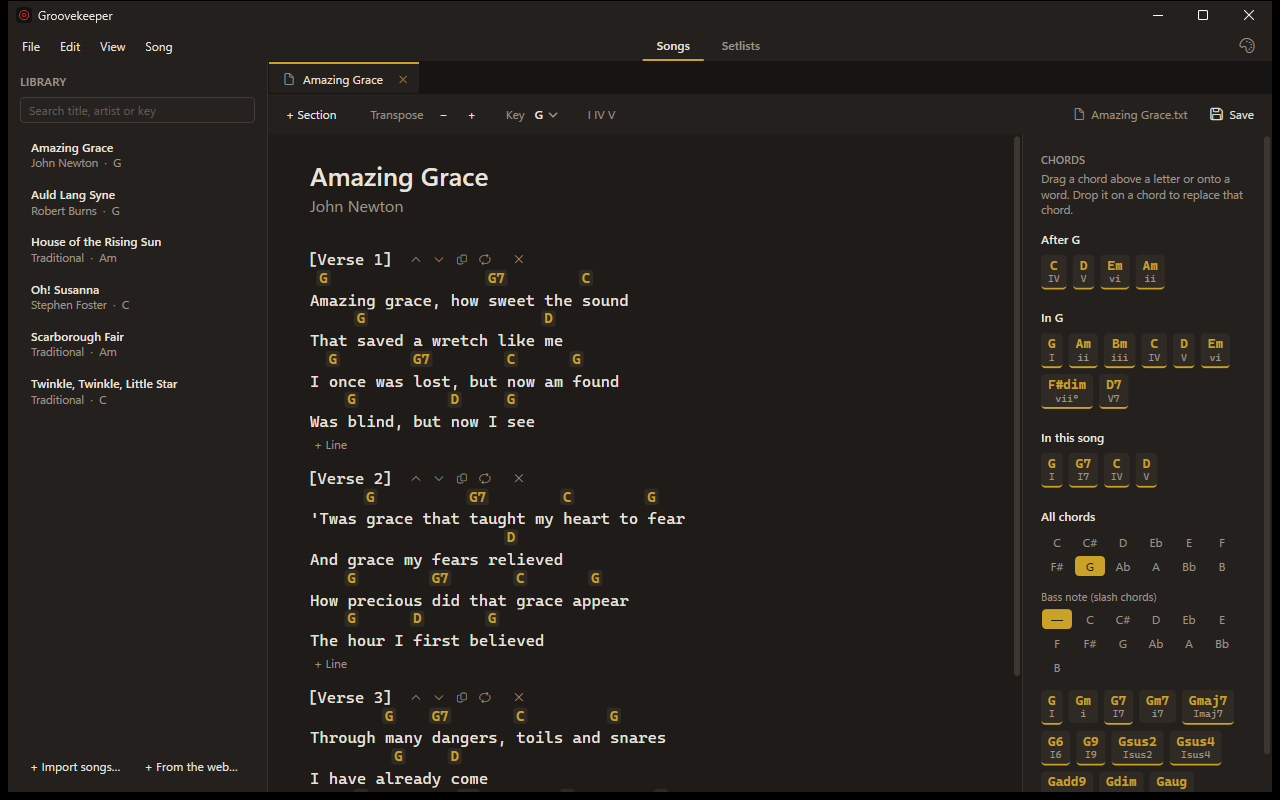
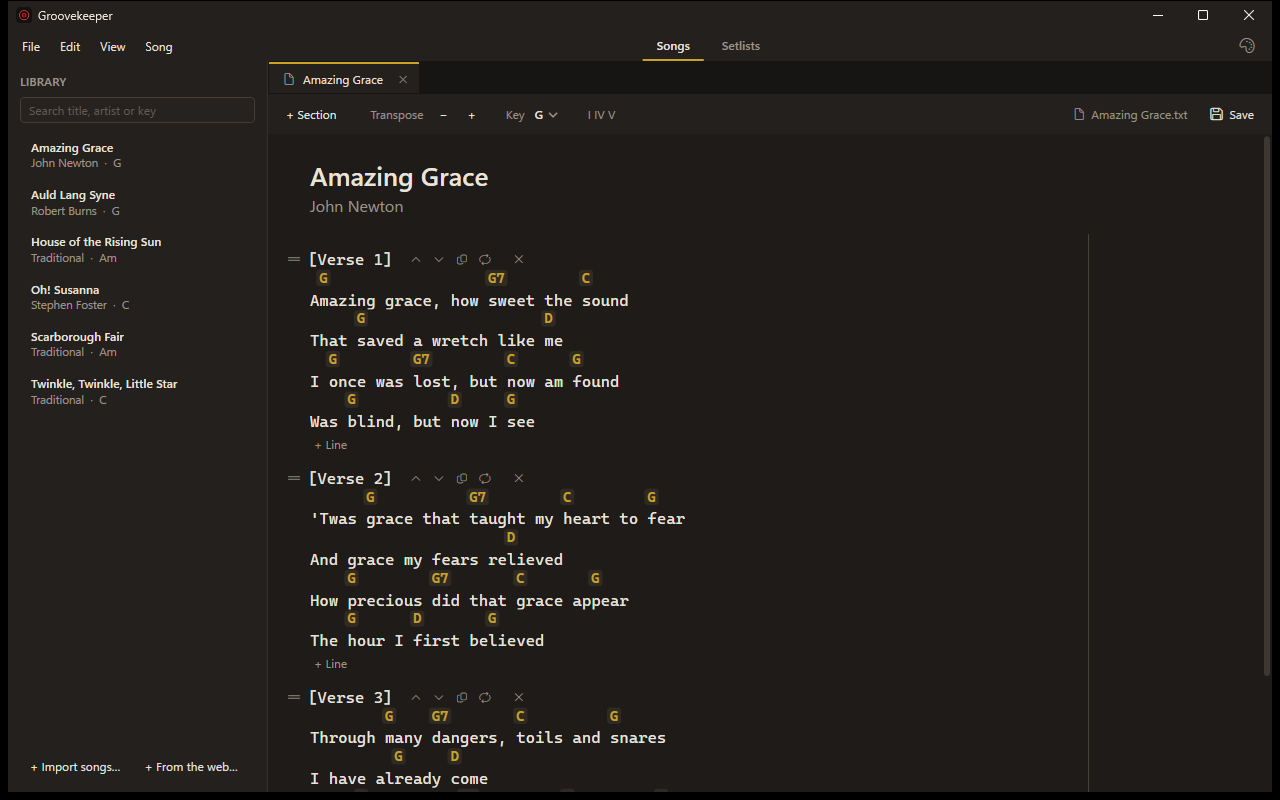
fix(start): describe chords as they work since 1.2.0
The start page still told users to drag chords from the panel on the
right, which 1.2.0 removed, and that transposing changes the key, which
it no longer does. The tips now say to click above a letter and type the
chord, mention double-click to change one, and say the key stays as set.
The tagline says "put" rather than "drop" in both apps.

The README screenshots are taken again: the editor without the chord
panel, and the start page with the new tips.

Changed region(s): [[0.7812, 0.1875, 0.9688, 0.8438], [0.8125, 0.8438, 1.0, 1.0]]

diff --git a/SongCreator/Views/StartPage.xaml b/SongCreator/Views/StartPage.xaml
@@ -97,7 +97,7 @@
                     </StackPanel>
                     <TextBlock FontSize="19" Foreground="{DynamicResource MutedForeground}" TextWrapping="Wrap"
                                Margin="0,12,0,32" LineHeight="28" MaxWidth="420" HorizontalAlignment="Left"
-                               Text="Write your lyrics, then drop each chord exactly on the syllable where it changes." />
+                               Text="Write your lyrics, then put each chord exactly on the syllable where it changes." />
 
                     <StackPanel Orientation="Horizontal">
                         <Button Style="{StaticResource PrimaryButton}" Command="{Binding NewSongCommand}" FontSize="15">
@@ -135,9 +135,9 @@
                     <Border Style="{StaticResource Card}" Padding="20" Margin="8">
                         <StackPanel>
                             <TextBlock Style="{StaticResource TipNumber}" Text="02" />
-                            <TextBlock Style="{StaticResource TipTitle}" Text="Drag in the chords" />
+                            <TextBlock Style="{StaticResource TipTitle}" Text="Type in the chords" />
                             <TextBlock Style="{StaticResource TipText}"
-                                       Text="Drag a chord from the panel on the right onto a word. It stays anchored to that letter while you keep editing the lyrics." />
+                                       Text="Click above a letter, type the chord and press Enter. It stays anchored to that letter while you keep editing the lyrics." />
                         </StackPanel>
                     </Border>
                     <Border Style="{StaticResource Card}" Padding="20" Margin="8">
@@ -145,7 +145,7 @@
                             <TextBlock Style="{StaticResource TipNumber}" Text="03" />
                             <TextBlock Style="{StaticResource TipTitle}" Text="Refine and transpose" />
                             <TextBlock Style="{StaticResource TipText}"
-                                       Text="Drag chords sideways to move them, right-click to remove. Transposing updates every chord and the key." />
+                                       Text="Drag chords sideways to move them, double-click to change one, right-click to remove. Transposing moves every chord; the key stays as you set it." />
                         </StackPanel>
                     </Border>
                 </UniformGrid>

diff --git a/web/apps/groovekeeper/src/pages/StartPage.tsx b/web/apps/groovekeeper/src/pages/StartPage.tsx
@@ -69,7 +69,7 @@ export function StartPage() {
             <h1 className="text-4xl font-bold sm:text-5xl">Groovekeeper</h1>
           </div>
           <p className="mt-4 max-w-md text-lg text-muted sm:text-xl">
-            Write your lyrics, then drop each chord exactly on the syllable where it changes.
+            Write your lyrics, then put each chord exactly on the syllable where it changes.
           </p>
           <div className="mt-8 flex flex-wrap gap-3">
             <button

diff --git a/CHANGELOG.md b/CHANGELOG.md
@@ -11,6 +11,10 @@ version's section here becomes the text of its GitHub release.
   and the caret goes to the line before. The section stays empty when the song is saved and opened
   again; + Line adds a line back.
 
+### Fixed
+- The start page's tips describe chords as they work since 1.2.0: typed above a letter rather than
+  dragged from a panel, and transposing moves the chords but leaves the key as you set it.
+
 ## [1.2.0] - 2026-10-06
 
 ### Added
